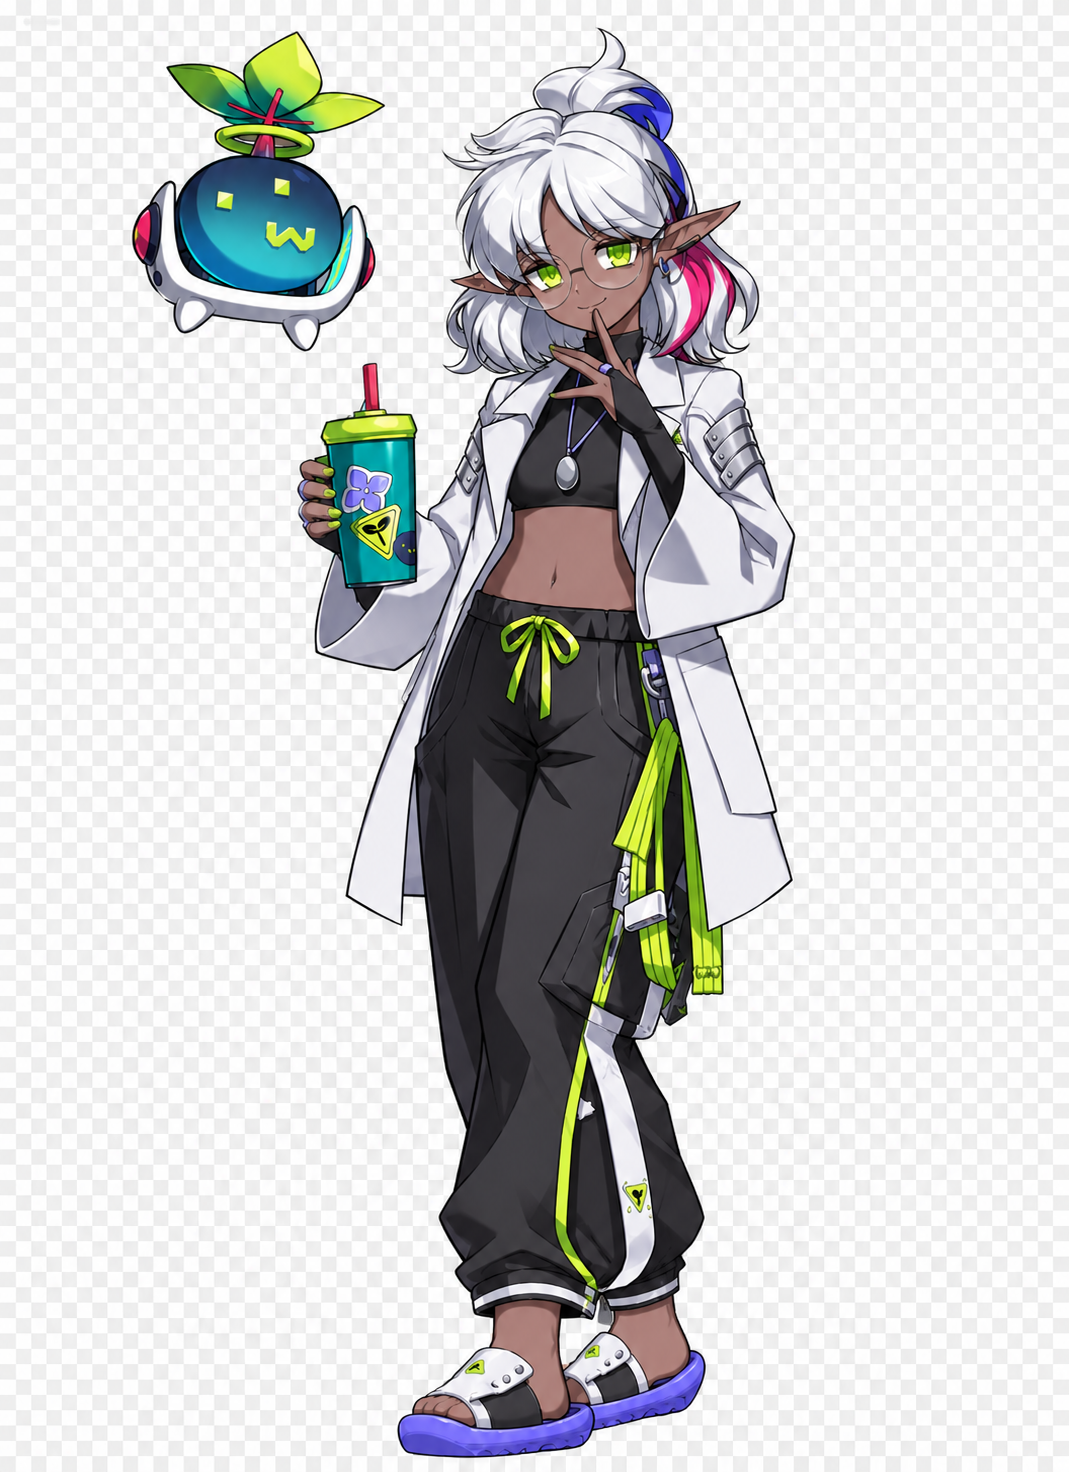
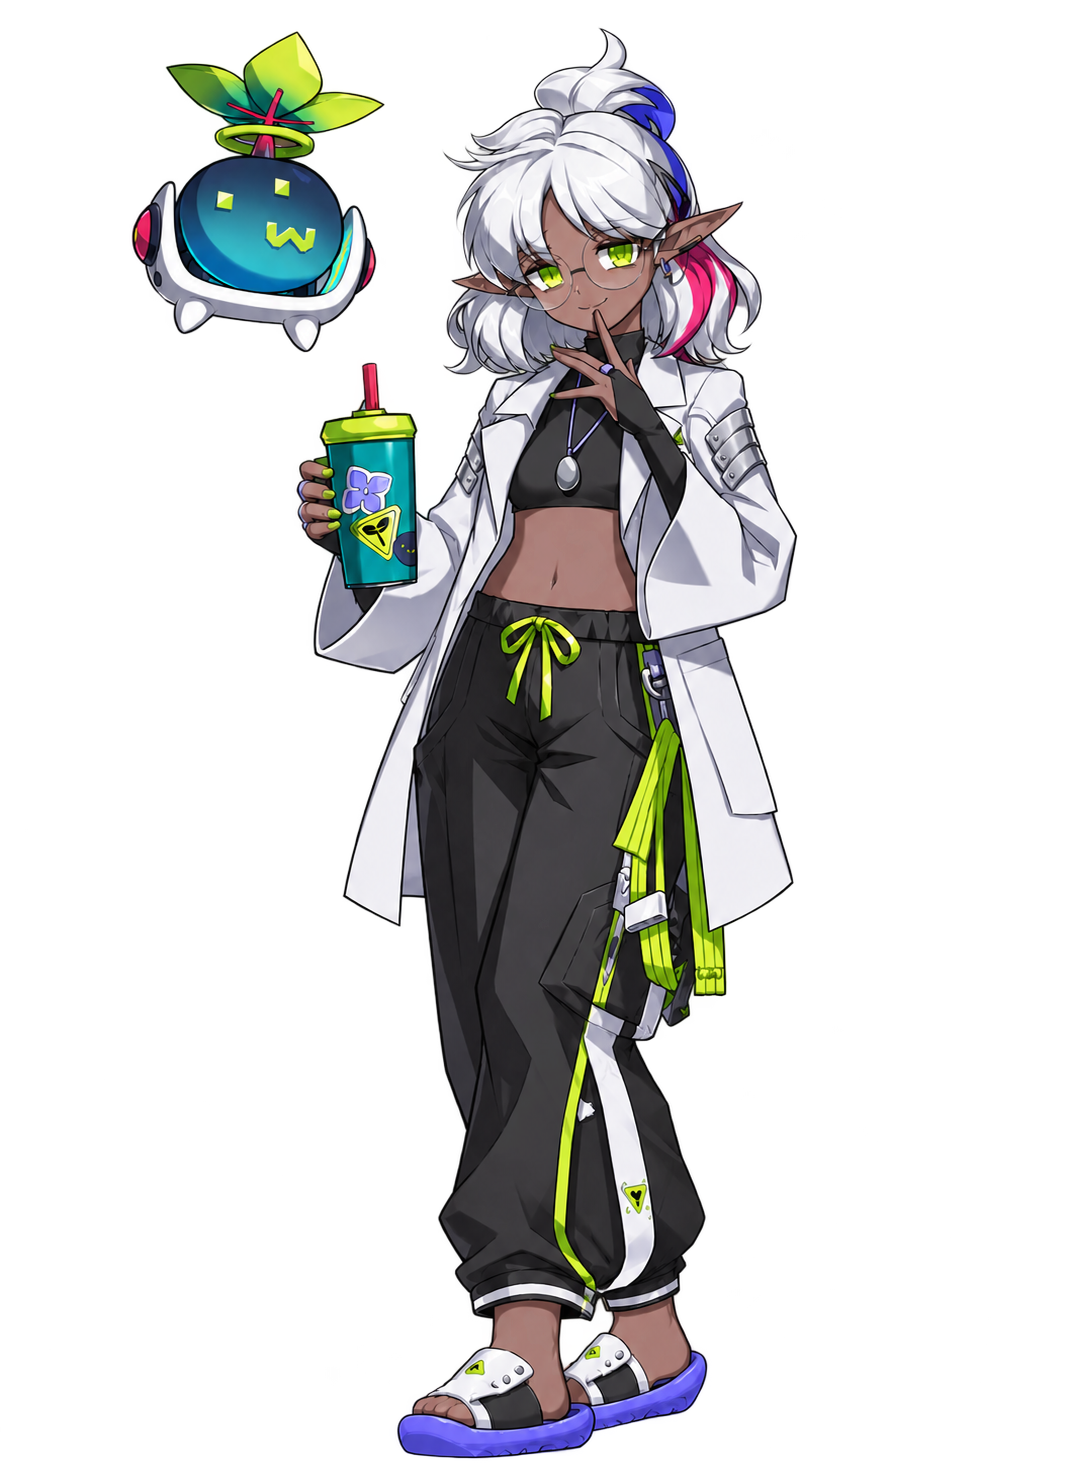
Add page nav with date filters, set page background, fix Peta_2 cutout
- Set background to image/25-Rnew.png as the page's lowest layer
- Add left page-nav sidebar: home link plus per-date "成交紀錄" filters
- Replace Ai_restore_Peta_2.png with a properly alpha-cut version

diff --git a/sheet.html b/sheet.html
@@ -20,12 +20,52 @@
   *{ box-sizing:border-box; }
   body{
     margin:0;
-    background:var(--bg);
+    padding-left:200px;
+    background-color:var(--bg);
+    background-image:url('image/25-Rnew.png');
+    background-size:cover;
+    background-position:center top;
+    background-repeat:no-repeat;
+    background-attachment:fixed;
     color:var(--text);
     font-family:'Noto Sans TC','Microsoft JhengHei',sans-serif;
     -webkit-font-smoothing:antialiased;
   }
   h1,h2{ text-wrap:balance; margin:0; font-family:'Noto Serif TC','PMingLiU',serif; }
+
+  .page-nav{
+    position:fixed; left:0; top:0; bottom:0; width:200px; z-index:10;
+    background:color-mix(in srgb, var(--surface) 92%, transparent);
+    backdrop-filter:blur(10px);
+    border-right:1px solid var(--border);
+    padding:20px 14px; overflow-y:auto;
+    display:flex; flex-direction:column; gap:4px;
+  }
+  .page-nav-title{
+    font-size:.68rem; letter-spacing:.14em; text-transform:uppercase;
+    color:var(--text-faint); font-weight:700; padding:0 12px 10px;
+  }
+  .page-nav .page-link{
+    display:block; padding:9px 12px; border-radius:8px;
+    color:var(--text-dim); text-decoration:none; font-size:.86rem;
+    font-weight:600; cursor:pointer; white-space:nowrap;
+    transition:background-color .15s ease, color .15s ease;
+  }
+  .page-nav .page-link:hover{ background:var(--surface-2); color:var(--text); }
+  .page-nav .page-link.active{ background:var(--accent-bg); color:var(--accent-strong); }
+  .page-nav .page-divider{ height:1px; background:var(--border); margin:8px 4px; }
+
+  @media (max-width:760px){
+    body{ padding-left:0; }
+    .page-nav{
+      position:sticky; left:auto; top:0; bottom:auto; width:auto; height:auto;
+      flex-direction:row; align-items:center; overflow-x:auto; overflow-y:hidden;
+      border-right:none; border-bottom:1px solid var(--border);
+      padding:10px 14px; z-index:11;
+    }
+    .page-nav-title{ padding:0 10px 0 0; }
+    .page-nav .page-divider{ width:1px; height:20px; margin:0 4px; flex:none; }
+  }
 
   .topbar{
     position:sticky; top:0; z-index:10;
@@ -197,6 +237,10 @@
 </style>
 </head><body>
 
+<nav class="page-nav" id="pageNav">
+  <div class="page-nav-title">頁面</div>
+</nav>
+
 <header class="topbar">
   <div class="topbar-inner">
     <div class="title-block">
@@ -250,11 +294,19 @@
     return null;
   }
 
+  function itemDates(item){
+    if(!item.history.length) return [];
+    const set = new Set();
+    item.history.forEach((v, i) => set.add((item.historyDates && item.historyDates[i]) || SNAPSHOT_DATE));
+    return Array.from(set);
+  }
+
   function renderRow(item, tierIdx, itemIdx){
     const hasData = item.history.length > 0;
     const li = document.createElement('li');
     li.className = 'row';
     li.dataset.key = tierIdx + '-' + itemIdx;
+    li.dataset.dates = itemDates(item).join(',');
 
     let priceTableHtml;
     if(hasData){
@@ -289,10 +341,14 @@
     main.innerHTML = '';
     let opts = '<option value="">全部拍賣品</option>';
     let totalItems = 0, withData = 0, noData = 0;
+    const allDates = new Set();
 
     DATA.forEach((tier, tierIdx) => {
       totalItems += tier.items.length;
-      tier.items.forEach(it => (it.history.length > 0 || it.max > 0) ? withData++ : noData++);
+      tier.items.forEach(it => {
+        (it.history.length > 0 || it.max > 0) ? withData++ : noData++;
+        itemDates(it).forEach(d => allDates.add(d));
+      });
 
       const details = document.createElement('details');
       details.className = 'tier';
@@ -315,6 +371,7 @@
     });
 
     lookup.innerHTML = opts;
+    renderPageNav(allDates);
 
     document.getElementById('stats').innerHTML = `
       <div class="stat"><b>${totalItems}</b><span>總拍賣品</span></div>
@@ -324,9 +381,48 @@
     `;
   }
 
+  function renderPageNav(dateSet){
+    const nav = document.getElementById('pageNav');
+    const dates = Array.from(dateSet).sort().reverse();
+    let html = '<div class="page-nav-title">頁面</div>';
+    html += '<a class="page-link active" data-date="">歷史成交總集</a>';
+    html += '<div class="page-divider"></div>';
+    html += dates.map(d => `<a class="page-link" data-date="${d}">${d}成交紀錄</a>`).join('');
+    nav.innerHTML = html;
+  }
+
+  function filterByDate(date){
+    document.getElementById('lookup').value = '';
+    document.querySelectorAll('.page-link').forEach(a => a.classList.toggle('active', a.dataset.date === date));
+    const emptyState = document.getElementById('emptyState');
+    document.querySelectorAll('li.row').forEach(li => li.classList.remove('highlight'));
+
+    if(!date){
+      document.querySelectorAll('details.tier').forEach(d => { d.hidden = false; d.open = true; });
+      document.querySelectorAll('li.row').forEach(li => li.hidden = false);
+      emptyState.classList.remove('show');
+      return;
+    }
+
+    let anyVisible = false;
+    document.querySelectorAll('details.tier').forEach(tier => {
+      let tierHasVisible = false;
+      tier.querySelectorAll('li.row').forEach(li => {
+        const dates = li.dataset.dates ? li.dataset.dates.split(',') : [];
+        const match = dates.includes(date);
+        li.hidden = !match;
+        if(match){ tierHasVisible = true; anyVisible = true; }
+      });
+      tier.hidden = !tierHasVisible;
+      tier.open = tierHasVisible;
+    });
+    emptyState.classList.toggle('show', !anyVisible);
+  }
+
   function goToItem(key){
     const emptyState = document.getElementById('emptyState');
     document.querySelectorAll('li.row').forEach(li => li.classList.remove('highlight'));
+    document.querySelectorAll('.page-link').forEach(a => a.classList.toggle('active', a.dataset.date === ''));
 
     if(!key){
       document.querySelectorAll('details.tier').forEach(d => { d.hidden = false; d.open = true; });
@@ -351,6 +447,12 @@
 
   render();
   document.getElementById('lookup').addEventListener('change', e => goToItem(e.target.value));
+  document.getElementById('pageNav').addEventListener('click', e => {
+    const link = e.target.closest('.page-link');
+    if(!link) return;
+    e.preventDefault();
+    filterByDate(link.dataset.date);
+  });
 
   const SIDE_ART = ['image/Ai_restore_Peta.png', 'image/Ai_restore_Peta_2.png'];
   const sideArt = document.getElementById('sideArt');
